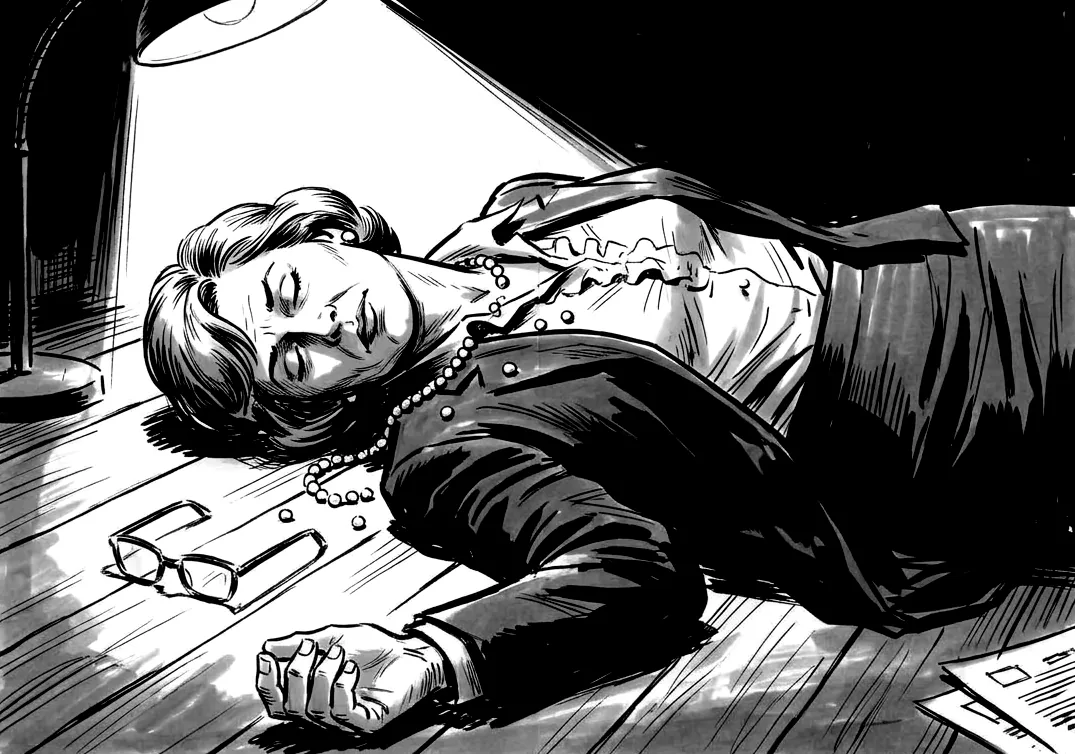
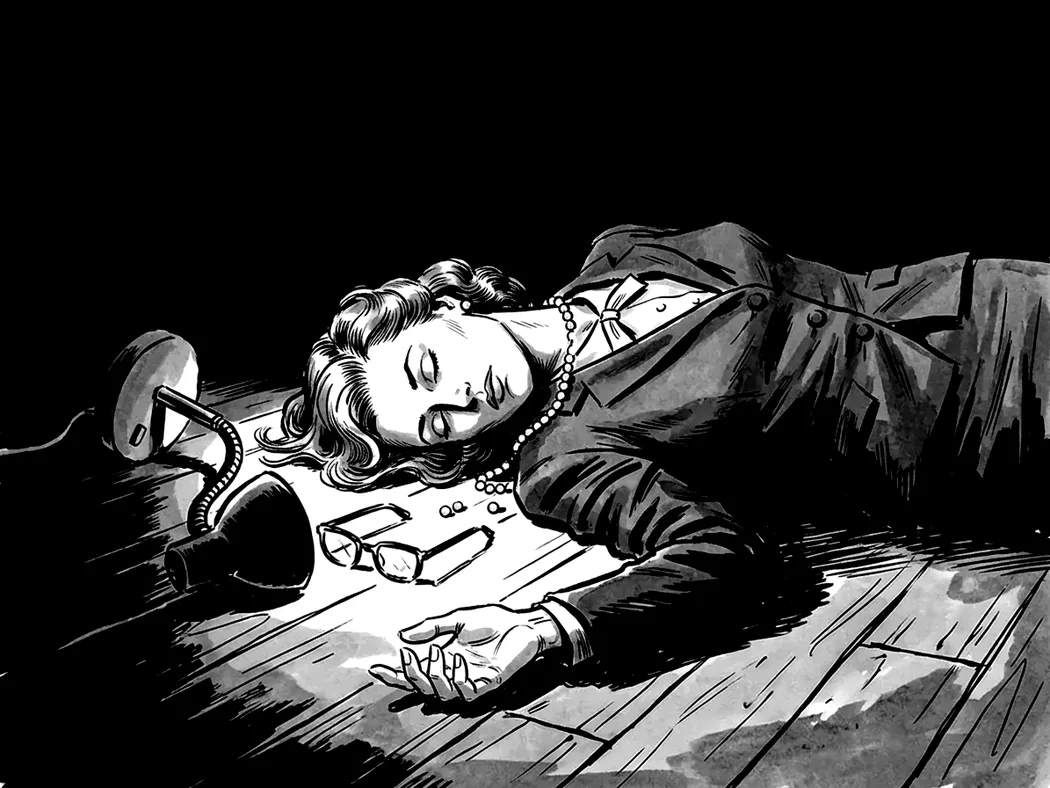
Mordnärbilderna i den nya stilen med nedslagen lampa
Omgjorda med de nya prompterna (Jonas 2026-11-14: "Mycket bra!").
Grövre linje och sparsam lavering i stället för den välgjorda stilen.
Skrivbordslampan ligger omkullvält på golvet, som Jonas valde, och
kvinnan är gjord med mannens nya bild som referens.

Claude-Session: https://claude.ai/code/session_01X82C4AptUEE9LHKngPSzUq

diff --git a/src/scenes/sceneImages.js b/src/scenes/sceneImages.js
@@ -133,8 +133,8 @@ export const SCENE_IMAGES = /** @type {const} */ ({
   morningMurderMan: { src: morningMurderMan, alt: 'En man ligger död på en regnvåt gata under en gatlykta. Hans hatt ligger bredvid, och en man i hatt och rock går därifrån med en pistol i handen.', position: '60% 50%' },
   morningMurderHotelWoman: { src: morningMurderHotelWoman, alt: 'En kvinna ligger död på golvet i ett hotellrum bredvid ett vältat glas. En man i hatt med en pistol i handen går ut genom den öppna dörren.', position: '50% 50%' },
   morningMurderHotelMan: { src: morningMurderHotelMan, alt: 'En man ligger död på golvet i ett hotellrum bredvid ett vältat glas. En man i hatt med en pistol i handen går ut genom den öppna dörren.', position: '50% 50%' },
-  morningMurderCloseUpWoman: { src: morningMurderCloseUpWoman, alt: 'En kvinna i dräkt ligger död på ett trägolv under en lampa. Hennes pärlhalsband har gått sönder, och glasögonen ligger bredvid.', position: '30% 50%' },
-  morningMurderCloseUpMan: { src: morningMurderCloseUpMan, alt: 'En man i kostym och slips ligger död på ett trägolv under en lampa. Glasögonen ligger bredvid honom.', position: '30% 50%' },
+  morningMurderCloseUpWoman: { src: morningMurderCloseUpWoman, alt: 'En kvinna i dräkt ligger död på ett mörkt trägolv. En nedslagen skrivbordslampa ligger på sidan bredvid henne, och glasögonen och några lösa pärlor ligger i ljuset.', position: '35% 50%' },
+  morningMurderCloseUpMan: { src: morningMurderCloseUpMan, alt: 'En man i kostym ligger död på ett mörkt trägolv. En nedslagen skrivbordslampa ligger på sidan bredvid honom, och glasögonen ligger i ljuset.', position: '35% 50%' },
   morningMurderPoliceWoman: { src: morningMurderPoliceWoman, alt: 'En kvinna ligger död på en våt gata en grå morgon. En polis sitter på huk bredvid henne, hennes sko och handväska ligger utspridda, och en bagare, en man med portfölj och en tidningspojke tittar på.', position: '40% 50%' },
   morningMurderPoliceMan: { src: morningMurderPoliceMan, alt: 'En man ligger död på en våt gata en grå morgon. En polis sitter på huk bredvid honom, hans hatt ligger på gatstenen, och en bagare, en man med portfölj och en tidningspojke tittar på.', position: '40% 50%' },
   morningMurderStairsWoman: { src: morningMurderStairsWoman, alt: 'Sett uppifrån i ett spiraltrapphus ligger en kvinna död på det rutiga golvet längst ner. Hennes skor ligger kvar på trappstegen.', position: '50% 50%' },

diff --git a/docs/bildsmak.md b/docs/bildsmak.md
@@ -87,7 +87,8 @@ på `src/scenes/images/`.
    - Gillar: `roll-taxichauffor-man` (grov och skissad).
    - Okej men för välgjord: `roll-taxichauffor-kvinna`,
      `roll-fonstertittare-*`, `roll-galningen-*`, `roll-borgmastare-*`,
-     `morgon-mord-hotell-*`, `morgon-mord-narbild-*`.
+     `morgon-mord-hotell-*`. (`morgon-mord-narbild-*` byttes 2026-11-14 mot
+     grövre bilder med lavering.)
 3. **Nära eller halvnära.** En serietecknare ritar inte en hel gata med alla
    detaljer i en liten ruta. Långt avstånd med mycket detaljer känns inte
    trovärdigt.
@@ -260,6 +261,12 @@ en regel.
   hus. Om första mannen: "det saknas lavering ovanför lampan och längs med
   husfasaden, som finns i kvinnans bild". Mannen omgjord med kvinnans bild som
   referens: "Det ser bra ut."
+- 2026-11-14, `morgon-mord-narbild-*` omgjorda med de nya prompterna: "De är
+  jättebra, men varför står det en lampa på golvet?" Lampan fick ligga
+  omkullvält på sidan. Av två försök med mannen: "jag gillar den undre bäst.
+  Lampan ligger rätt tycker jag" (den där lampan syns tydligast, fast skärmen
+  pekar bort från honom). Kvinnan gjord med den mannen som referens: "Mycket
+  bra!"
 
 ## Bilder att byta
 
